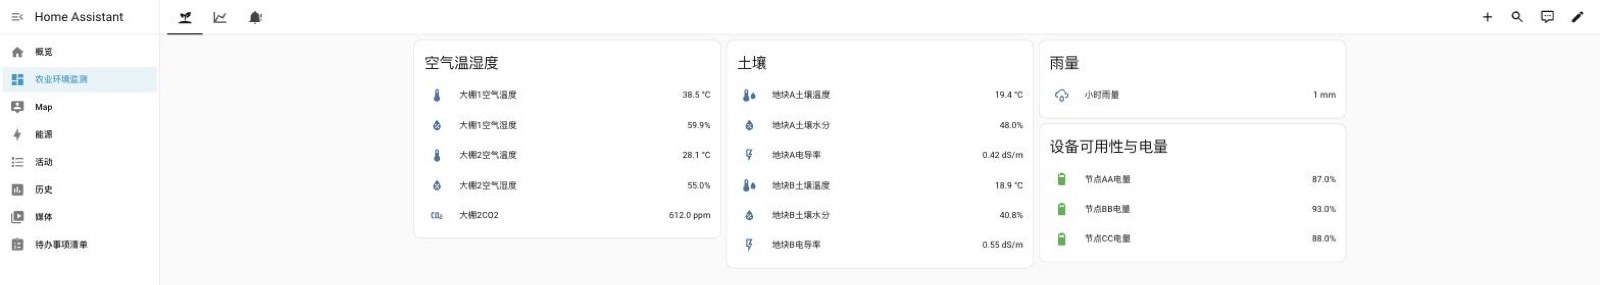
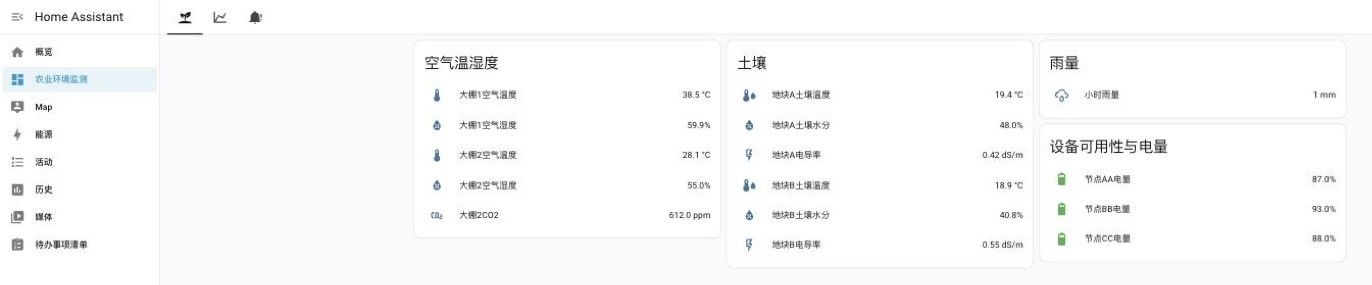
agri_env_monitor: crop the empty column beside the last card
The overview still carried blank canvas to the right of the fourth card.
1600 x 285 -> 1372 x 285.

diff --git a/solutions/agri_env_monitor/gallery/ATTRIBUTION.md b/solutions/agri_env_monitor/gallery/ATTRIBUTION.md
@@ -148,3 +148,12 @@ in a bed, a weather station on a mast, a gateway on a greenhouse wall. Every
 image here is a Home Assistant screenshot. A field photograph is the right
 cover for this page and has to be supplied; none exists in this working tree or
 in the hub repository.
+
+Second pass the same day: the overview was cropped again on the right, 1600 ×
+285 → 1372 × 285, dropping the empty column beside the last card. The
+navigation rail on the left is kept — it is what makes the picture read as Home
+Assistant.
+
+`ha-history-graph-local-20260907.jpg` is left at 1600 × 779. Its cards are laid
+out in a single narrow column about 320 px wide, so cropping to the charts would
+leave an image too narrow to use; it stays a gallery image and not the cover.
